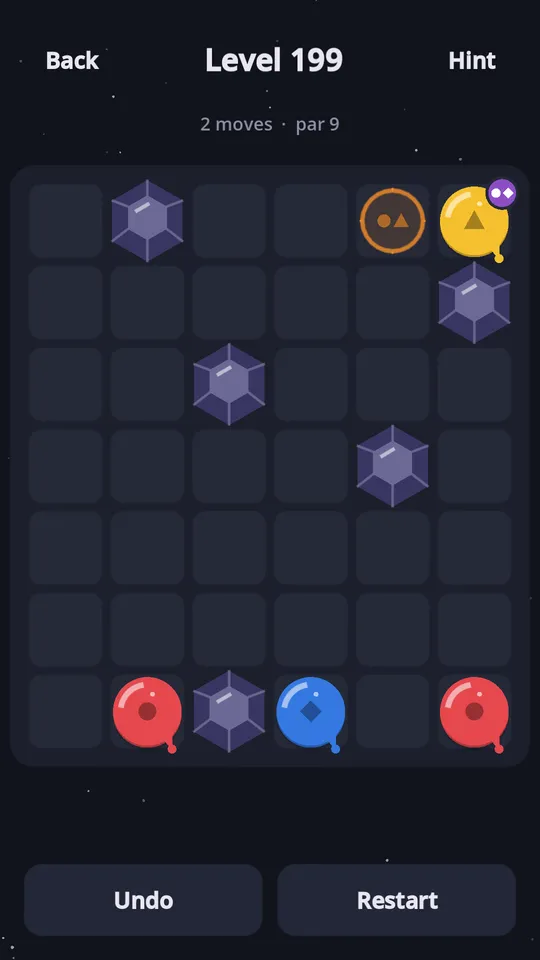
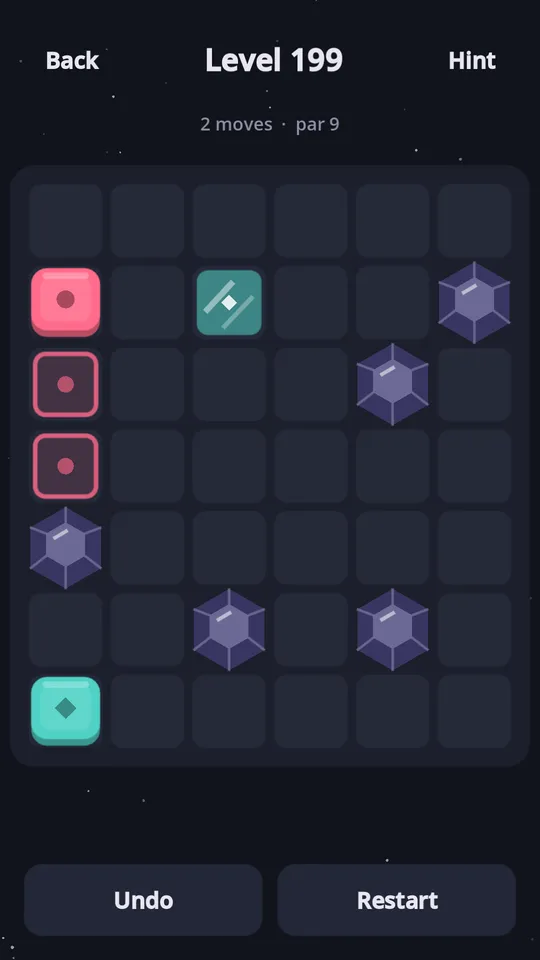
Slidescape: portals and prism tiles in the world list and screenshot

diff --git a/app/slidescape/page.tsx b/app/slidescape/page.tsx
@@ -19,12 +19,12 @@ const shots = [
   { src: menu, alt: "Slidescape title screen with a demo board" },
   { src: moss, alt: "A Moss level: sticky tiles stop blocks dead" },
   { src: paint, alt: "A Paint level: red, blue and yellow paint to mix" },
-  { src: prism, alt: "A Prism level on a dark starry theme" },
+  { src: prism, alt: "A Prism level: glowing tiles recolor blocks" },
 ];
 
 const features = [
   ["One swipe moves everything", "Swipe once and every block slides until it hits something. Plan where they'll stop."],
-  ["8 worlds, 240 levels", "Stones, sticky moss, mirror blocks that slide the opposite way, twins, and paint that mixes on collision."],
+  ["8 worlds, 240 levels", "Stones, sticky moss, mirror blocks that slide the opposite way, portals, paint that mixes on collision and prism tiles that recolor."],
   ["A hard daily puzzle", "The same puzzle for everyone each day, with a different mechanic each weekday and a shareable result."],
   ["Fair by design", "No ads, ever. Half the worlds are free forever; one purchase unlocks the rest."],
 ];
